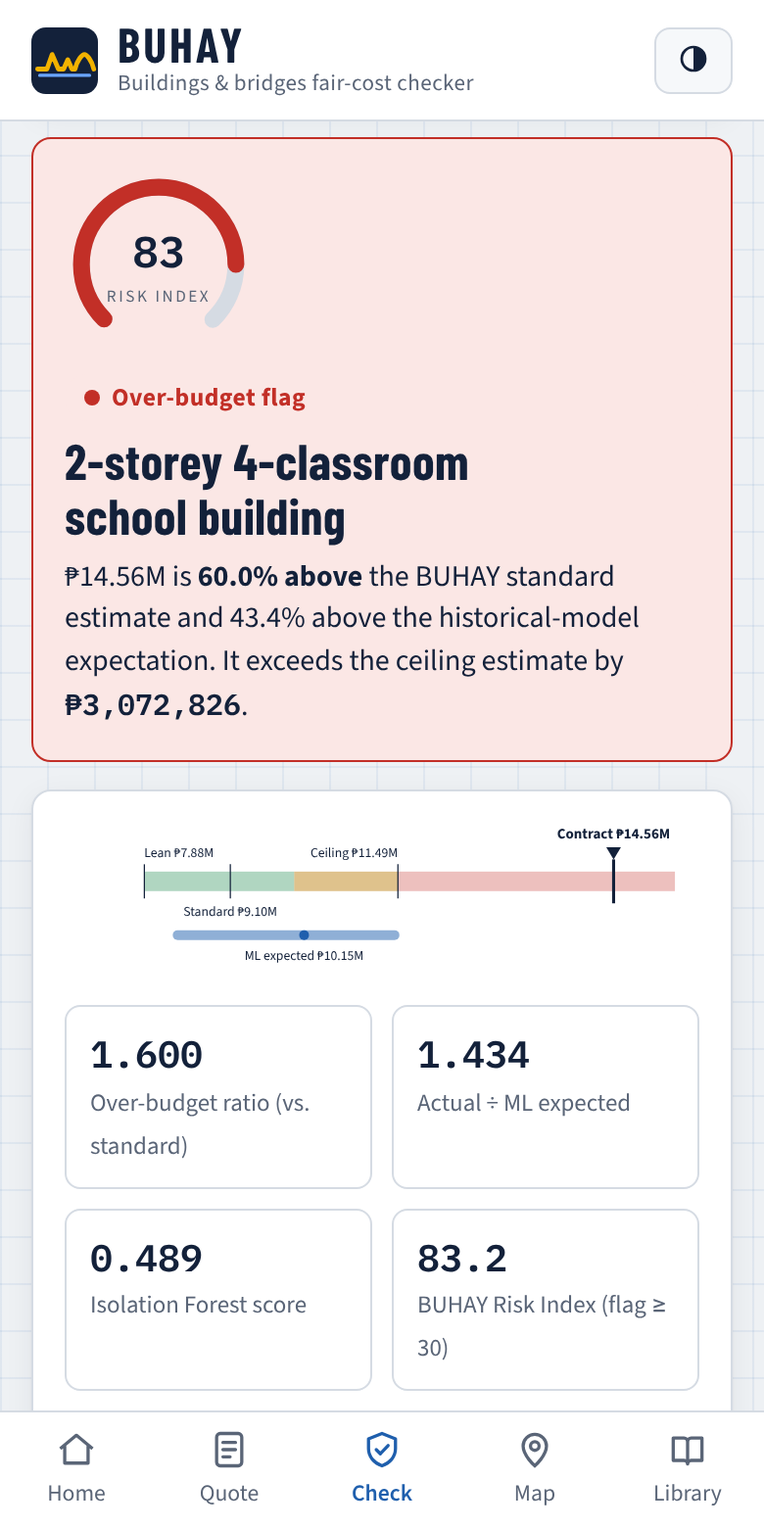
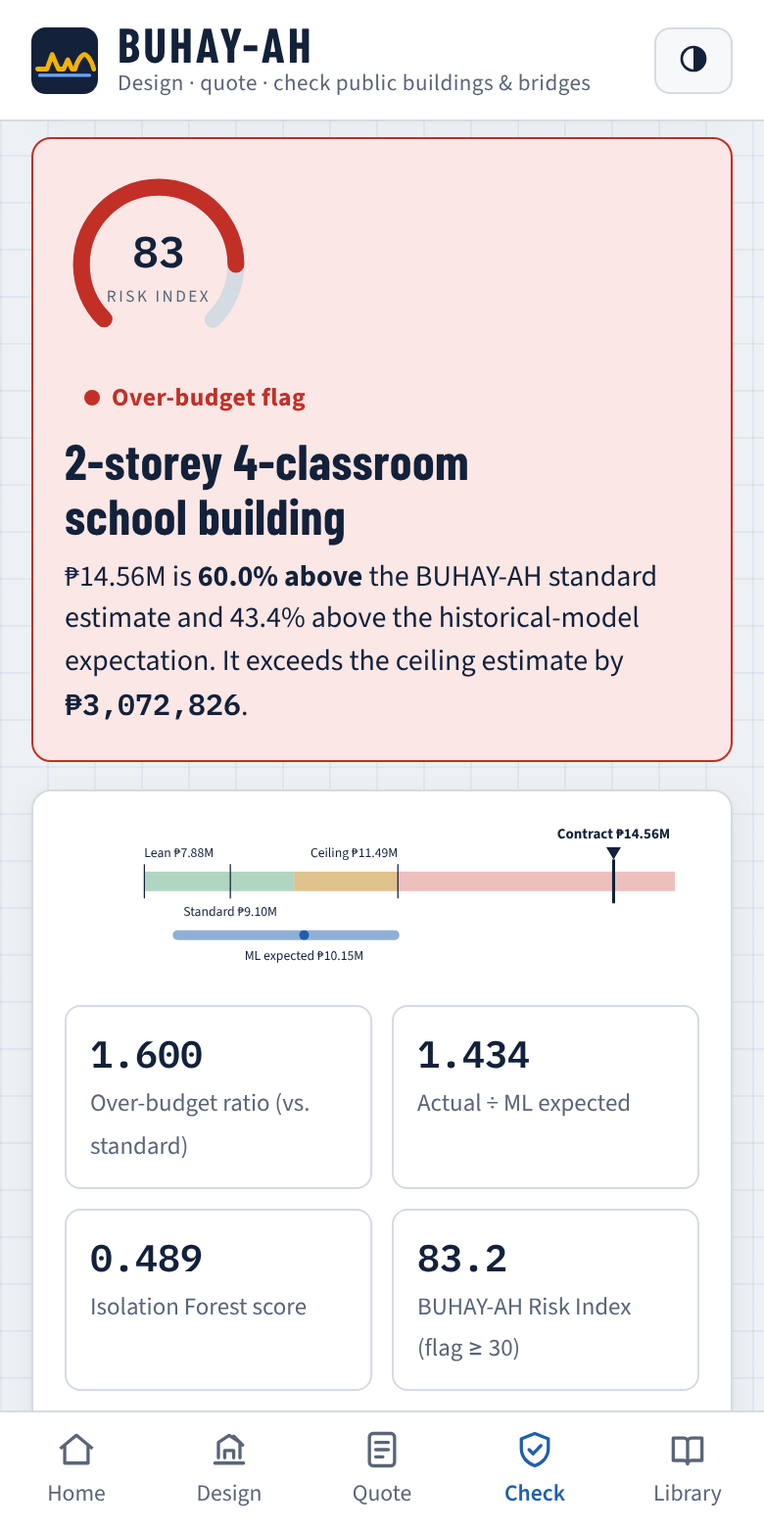
Website: BUHAY-AH rename, live budget-to-design demo and design gallery; remove map
Claude-Session: https://claude.ai/code/session_01L2hthenQG1mBGNzjn6dooT

diff --git a/docs/index.html b/docs/index.html
@@ -3,15 +3,14 @@
 <head>
 <meta charset="utf-8">
 <meta name="viewport" content="width=device-width, initial-scale=1, viewport-fit=cover">
-<title>BUHAY</title>
+<title>BUHAY-AH</title>
 <meta name="claude:viewport-fit-sides" content="cover">
-<meta name="description" content="BUHAY prices public buildings and bridges from their plans using DPWH and international standards, gives a lean start quotation, and flags over-budgeted contracts. Download the app.">
+<meta name="description" content="BUHAY-AH designs public buildings and bridges from a requirement or a budget, prices them under DPWH and international standards, gives a lean start quotation, and flags over-budgeted contracts. Download the app.">
 <meta name="theme-color" content="#13213a">
 <link rel="icon" href="app/icons/icon-192.png">
 <link rel="preconnect" href="https://fonts.googleapis.com">
 <link rel="preconnect" href="https://fonts.gstatic.com" crossorigin>
 <link rel="stylesheet" href="https://fonts.googleapis.com/css2?family=Barlow+Condensed:wght@500;600;700;800&family=IBM+Plex+Mono:wght@400;600&family=Source+Sans+3:wght@400;600;700&display=swap">
-<link rel="stylesheet" href="app/vendor/leaflet/leaflet.css">
 <style>
 /* Layout: long-scroll download page. Full-bleed bands, content in a 1120px column.
    Identity: blueprint navy ink + survey grid paper, DPWH-sign yellow reserved for the download actions. */
@@ -114,19 +113,24 @@ a { color: var(--blue); }
 .t b { display: block; font-family: var(--f-mono); font-size: 1.6rem; }
 .t p { color: var(--muted); font-size: 0.92rem; margin-top: 6px; }
 
-/* map */
-#map { height: 520px; border-radius: 12px; border: 1px solid var(--line); background: var(--sheet-2); margin-top: 22px; }
-.leaflet-container { font-family: var(--f-body); background: var(--sheet-2); }
-.mapbar { display: flex; flex-wrap: wrap; justify-content: space-between; gap: 12px; align-items: end; }
-.seg { display: inline-flex; background: var(--sheet); border: 1px solid var(--line); border-radius: 9px; padding: 3px; gap: 3px; }
-.seg button { border: 0; background: none; font: inherit; font-weight: 600; color: var(--muted); padding: 7px 14px; border-radius: 7px; cursor: pointer; }
-.seg button[aria-pressed="true"] { background: var(--navy); color: var(--navy-ink); }
-.legend { display: flex; flex-wrap: wrap; gap: 16px; margin-top: 10px; font-size: 0.88rem; color: var(--muted); }
-.legend i { display: inline-block; width: 11px; height: 11px; border-radius: 50%; margin-right: 6px; vertical-align: -1px; }
-.mapstats { display: grid; grid-template-columns: repeat(auto-fit, minmax(160px, 1fr)); gap: 12px; margin-top: 16px; }
-.mapstats div { background: var(--sheet); border: 1px solid var(--line); border-radius: 10px; padding: 12px 14px; }
-.mapstats b { display: block; font-family: var(--f-mono); font-size: 1.4rem; }
-.mapstats span { color: var(--muted); font-size: 0.86rem; }
+/* design studio demo */
+.demo { display: grid; grid-template-columns: 1fr; gap: 18px; margin-top: 24px; }
+@media (min-width: 900px) { .demo { grid-template-columns: 320px 1fr; } }
+.panel { background: var(--sheet); border: 1px solid var(--line); border-radius: 12px; padding: 18px; display: flex; flex-direction: column; gap: 12px; min-width: 0; }
+.panel label { font-size: 0.85rem; font-weight: 600; color: var(--muted); display: flex; flex-direction: column; gap: 4px; }
+.panel select, .panel input { font: inherit; padding: 9px 10px; border: 1px solid var(--line); border-radius: 8px; background: var(--sheet-2); color: var(--ink); }
+.panel input[type=range] { padding: 0; accent-color: var(--blue); }
+.budgetval { font-family: var(--f-mono); font-size: 1.6rem; font-weight: 600; color: var(--ink); }
+.opts { display: grid; grid-template-columns: repeat(auto-fill, minmax(220px, 1fr)); gap: 12px; min-width: 0; }
+.opt { position: relative; background: var(--sheet); border: 1px solid var(--line); border-radius: 12px; padding: 10px; display: flex; flex-direction: column; gap: 4px; min-width: 0; }
+.opt.best { box-shadow: 0 0 0 2px var(--sign) inset; border-color: var(--sign); }
+.opt .tag { position: absolute; top: 8px; right: 8px; background: var(--sign); color: var(--sign-ink); font-size: 0.7rem; font-weight: 800; text-transform: uppercase; letter-spacing: 0.06em; padding: 2px 6px; border-radius: 4px; }
+.opt b { font-size: 1.02rem; }
+.opt span { color: var(--muted); font-size: 0.86rem; }
+.opt .cost { font-family: var(--f-mono); color: var(--ink); }
+.thumb { background: #fff; border: 1px solid var(--line); border-radius: 8px; height: 130px; display: flex; align-items: center; justify-content: center; overflow: hidden; }
+.thumb svg { width: 100%; height: 100%; }
+.gallery { display: grid; grid-template-columns: repeat(auto-fill, minmax(230px, 1fr)); gap: 12px; margin-top: 18px; }
 
 /* sdg */
 .sdgs { display: grid; grid-template-columns: repeat(auto-fit, minmax(200px, 1fr)); gap: 12px; margin-top: 28px; }
@@ -157,12 +161,12 @@ footer .wrap { display: flex; flex-direction: column; gap: 10px; }
 <body>
 <header class="nav">
   <div class="wrap">
-    <a class="brand" href="#top" aria-label="BUHAY home">
+    <a class="brand" href="#top" aria-label="BUHAY-AH home">
       <svg viewBox="0 0 64 64" aria-hidden="true"><rect width="64" height="64" rx="14" fill="#13213a"/><path d="M6 40h9l5-14 6 14h5l4-9 4 9h3c2-9 7-14 9-14s7 5 9 14" fill="none" stroke="#f2b200" stroke-width="4.5" stroke-linecap="round" stroke-linejoin="round"/><path d="M8 46h48" stroke="#6aa5ff" stroke-width="3" stroke-linecap="round"/></svg>
-      <b>BUHAY</b>
+      <b>BUHAY-AH</b>
     </a>
     <nav aria-label="Sections">
-      <a href="#how">How it works</a><a href="#map-section">Map</a><a href="#sdg">SDGs</a><a href="#research">Research</a><a class="get" href="#download">Download</a>
+      <a href="#how">How it works</a><a href="#designs">Design studio</a><a href="#sdg">SDGs</a><a href="#research">Research</a><a class="get" href="#download">Download</a>
     </nav>
   </div>
 </header>
@@ -170,19 +174,19 @@ footer .wrap { display: flex; flex-direction: column; gap: 10px; }
 <section class="hero" id="top">
   <div class="wrap">
     <div class="stack">
-      <div class="eyebrow">Public buildings &amp; bridges · DPWH &amp; international standards</div>
-      <h1>BUHAY<span>Buildings-and-Bridges Unit-cost Hybrid Analytics and Yardstick</span></h1>
-      <p class="lede">Give it the plan of a school building, health station, evacuation center or bridge. BUHAY takes off the quantities, prices them with DPWH pay items and gives you a <b>lean start quotation</b>, a fair estimate and a ceiling. Give it the contract amount and it tells you whether the project is over-budgeted.</p>
+      <div class="eyebrow">Design · quote · check public buildings &amp; bridges</div>
+      <h1>BUHAY-AH<span>Buildings-and-Bridges Unit-cost Hybrid Analytics and Yardstick for Accountable and Honest infrastructure</span></h1>
+      <p class="lede">No blueprint yet? Tell BUHAY-AH what the school, health station, evacuation center or bridge must hold, or how much money you have. It designs the facility, takes off every quantity under NSCP, DPWH and AASHTO rules, and gives you a <b>lean start quotation</b>, a fair estimate and a ceiling. Give it a contract amount and it tells you whether the project is over-budgeted.</p>
       <div class="btns">
-        <a class="btn sign" id="apkBtn" href="https://github.com/pogi6969/BUHAY-AH-A-FIGHT-AGAINTS-CORRUPTION-/releases/download/apk-latest/BUHAY.apk"><svg viewBox="0 0 24 24" aria-hidden="true"><path d="M12 3v12m0 0-4.5-4.5M12 15l4.5-4.5M4.5 19.5h15" fill="none" stroke="currentColor" stroke-width="2" stroke-linecap="round" stroke-linejoin="round"/></svg>Download for Android</a>
+        <a class="btn sign" id="apkBtn" href="https://github.com/pogi6969/BUHAY-AH-A-FIGHT-AGAINTS-CORRUPTION-/releases/download/apk-latest/BUHAY-AH.apk"><svg viewBox="0 0 24 24" aria-hidden="true"><path d="M12 3v12m0 0-4.5-4.5M12 15l4.5-4.5M4.5 19.5h15" fill="none" stroke="currentColor" stroke-width="2" stroke-linecap="round" stroke-linejoin="round"/></svg>Download for Android</a>
         <a class="btn blue" href="app/index.html#home"><svg viewBox="0 0 24 24" aria-hidden="true"><path d="M5 12h14m0 0-5-5m5 5-5 5" fill="none" stroke="currentColor" stroke-width="2" stroke-linecap="round" stroke-linejoin="round"/></svg>Open the web app</a>
         <a class="btn" href="#download">Install on iPhone or PC</a>
       </div>
       <p class="muted" style="font-size:0.92rem">Free · works offline after first load · your plans stay on your device</p>
     </div>
     <div class="phones" aria-label="App screens">
-      <div class="phone up"><img src="assets/screen-quote.png" alt="BUHAY quotation screen showing lean, standard and ceiling estimates for a 2-storey school building"></div>
-      <div class="phone"><img src="assets/screen-check.png" alt="BUHAY check screen flagging a padded contract with risk index 83"></div>
+      <div class="phone up"><img src="assets/screen-design.png" alt="BUHAY-AH design studio showing designs that fit a ₱25 million budget"></div>
+      <div class="phone"><img src="assets/screen-quote.png" alt="BUHAY-AH quotation screen showing lean, standard and ceiling estimates"></div>
     </div>
   </div>
 </section>
@@ -203,28 +207,34 @@ footer .wrap { display: flex; flex-direction: column; gap: 10px; }
 <section class="band" id="how" aria-labelledby="how-h">
   <div class="wrap">
     <div class="eyebrow">How it works</div>
-    <h2 id="how-h">From plan to fair price in four steps</h2>
+    <h2 id="how-h">From a need or a budget to a fair price</h2>
     <div class="steps">
-      <div class="step"><span class="n">01</span><h3>Provide the plan</h3><p>Start from a reference plan, import a DXF floor plan, or type the dimensions: storeys, spans, widths, foundation.</p></div>
-      <div class="step"><span class="n">02</span><h3>Quantity take-off</h3><p>Concrete, rebar, formwork, masonry, roofing, piles and girders are computed with NSCP 2015, DPWH Blue Book and AASHTO rules.</p></div>
-      <div class="step"><span class="n">03</span><h3>Quotation</h3><p>DPWH pay items and Bicol unit costs build the ABC with D.O. 197 s. 2016 / D.O. 30 s. 2025 markups, in lean, standard and ceiling tiers.</p></div>
-      <div class="step"><span class="n">04</span><h3>Over-budget check</h3><p>The over-budget ratio, an XGBoost cost model, and an Isolation Forest combine into the BUHAY Risk Index. SHAP explains every result.</p></div>
+      <div class="step"><span class="n">01</span><h3>Start anywhere</h3><p>A requirement (classrooms, beds, staff, evacuees, stalls), a budget, a DXF floor plan, or one of 55 design templates.</p></div>
+      <div class="step"><span class="n">02</span><h3>Design</h3><p>Reusable space modules on DepEd, DOH, NBC and DSWD norms are laid out into a schematic plan you can edit, save and combine.</p></div>
+      <div class="step"><span class="n">03</span><h3>Quotation</h3><p>Quantities from NSCP 2015, DPWH Blue Book and AASHTO rules, priced with DPWH pay items into lean, standard and ceiling ABCs.</p></div>
+      <div class="step"><span class="n">04</span><h3>Over-budget check</h3><p>The over-budget ratio, an XGBoost cost model and an Isolation Forest combine into the BUHAY-AH Risk Index. SHAP explains every result.</p></div>
     </div>
     <div class="tiersdemo" id="tiersDemo" aria-live="polite"></div>
     <p class="muted" style="margin-top:10px;font-size:0.92rem" id="tiersNote"></p>
   </div>
 </section>
 
-<section class="band" id="map-section" aria-labelledby="map-h" style="padding-top:20px">
+<section class="band" id="designs" aria-labelledby="des-h" style="padding-top:20px">
   <div class="wrap">
-    <div class="mapbar">
-      <div><div class="eyebrow">BUHAY Map · Bicol Region V</div><h2 id="map-h">Where the risk sits</h2></div>
-      <div class="seg" role="group" aria-label="Filter projects"><button type="button" data-k="all" aria-pressed="true">All</button><button type="button" data-k="building" aria-pressed="false">Buildings</button><button type="button" data-k="bridge" aria-pressed="false">Bridges</button></div>
+    <div class="eyebrow">Design studio · try it here</div>
+    <h2 id="des-h">What can your budget build?</h2>
+    <div class="demo">
+      <div class="panel">
+        <label for="dUsage">Facility<select id="dUsage"><option value="school">School building (classrooms)</option><option value="health">Health facility (beds)</option><option value="office">Government office (staff)</option><option value="evacuation">Evacuation center (persons)</option><option value="market">Public market (stalls)</option><option value="dorm">Dormitory (beds)</option></select></label>
+        <label for="dBudget">Budget<input id="dBudget" type="range" min="5000000" max="80000000" step="1000000" value="25000000"></label>
+        <span class="budgetval" id="dBudgetVal">₱25.00M</span>
+        <p class="muted" style="font-size:0.88rem">BUHAY-AH evaluates every storey count and capacity, prices each design from its quantities (lean start quotation, Albay 2025 prices, lot up to 60 m long) and keeps only designs that no other design beats on both capacity and cost.</p>
+      </div>
+      <div class="opts" id="dOpts" aria-live="polite"></div>
     </div>
-    <div id="map" role="region" aria-label="Map of screened projects in Bicol"></div>
-    <div class="legend"><span><i style="background:var(--bad)"></i>High risk (BRI ≥ 30)</span><span><i style="background:var(--warn)"></i>For review</span><span><i style="background:var(--ok)"></i>Within fair range</span></div>
-    <div class="mapstats" id="mapStats"></div>
-    <p class="muted" style="margin-top:12px;font-size:0.9rem">Pins show the 300-project simulated benchmark used in the research (SBD-300). They are not real DPWH contracts. In the app, your own screened contracts appear on the same map.</p>
+    <h3 style="margin-top:34px">From the design library</h3>
+    <div class="gallery" id="gallery"></div>
+    <p class="muted" style="margin-top:12px;font-size:0.9rem">Schematic designs for estimating, not for construction. In the app every design can be edited space by space, saved, and added as a wing of another design.</p>
   </div>
 </section>
 
@@ -245,11 +255,11 @@ footer .wrap { display: flex; flex-direction: column; gap: 10px; }
 <section class="band dark" id="download" aria-labelledby="dl-h">
   <div class="wrap">
     <div class="eyebrow">Download</div>
-    <h2 id="dl-h">Get BUHAY</h2>
+    <h2 id="dl-h">Get BUHAY-AH</h2>
     <div class="dl">
-      <div class="card feature" style="color:var(--ink)"><h3>Android app (APK)</h3><ol><li>Tap the button to download <span class="mono">BUHAY.apk</span>.</li><li>Open it and allow “Install unknown apps” for your browser.</li><li>Open BUHAY from your home screen.</li></ol><a class="btn sign" href="https://github.com/pogi6969/BUHAY-AH-A-FIGHT-AGAINTS-CORRUPTION-/releases/download/apk-latest/BUHAY.apk">Download APK</a></div>
+      <div class="card feature" style="color:var(--ink)"><h3>Android app (APK)</h3><ol><li>Tap the button to download <span class="mono">BUHAY-AH.apk</span>.</li><li>Open it and allow “Install unknown apps” for your browser.</li><li>Open BUHAY-AH from your home screen.</li></ol><a class="btn sign" href="https://github.com/pogi6969/BUHAY-AH-A-FIGHT-AGAINTS-CORRUPTION-/releases/download/apk-latest/BUHAY-AH.apk">Download APK</a></div>
       <div class="card" style="color:var(--ink)"><h3>Install on any phone or PC</h3><ol><li>Open the web app in Chrome, Edge or Safari.</li><li>Android/PC: tap <b>Install app</b> or the install icon in the address bar.</li><li>iPhone: Share → <b>Add to Home Screen</b>.</li></ol><a class="btn blue" href="app/index.html#home">Open the web app</a></div>
-      <div class="card" style="color:var(--ink)"><h3>Offline package</h3><ol><li>Download the ZIP and extract it.</li><li>Open <span class="mono">index.html</span> in any browser.</li><li>Quotations, checks and the map work without a server.</li></ol><a class="btn" href="downloads/BUHAY-App-Offline.zip">Download ZIP</a></div>
+      <div class="card" style="color:var(--ink)"><h3>Offline package</h3><ol><li>Download the ZIP and extract it.</li><li>Open <span class="mono">index.html</span> in any browser.</li><li>Designs, quotations and checks work without a server.</li></ol><a class="btn" href="downloads/BUHAY-AH-App-Offline.zip">Download ZIP</a></div>
       <div class="card" style="color:var(--ink)"><h3>Sample plan</h3><ol><li>Download the sample DXF floor plan (2-classroom school).</li><li>In the app: Quote → Import plan file.</li><li>Set storeys and spacing, read the quotation.</li></ol><a class="btn" href="app/data/sample-plan.dxf">Download DXF</a></div>
     </div>
   </div>
@@ -259,14 +269,15 @@ footer .wrap { display: flex; flex-direction: column; gap: 10px; }
   <div class="wrap paper">
     <div style="display:flex;flex-direction:column;gap:16px;min-width:0">
       <div class="eyebrow">The research</div>
-      <h2 id="res-h" style="font-size:clamp(1.7rem,4vw,2.4rem)">BUHAY: A blueprint-driven quantity take-off and hybrid machine-learning system for standards-based start quotations and over-budget detection in public buildings and bridges</h2>
-      <div class="abstract">The study builds a standards-based quantity take-off engine for public buildings and bridges in Bicol Region V and couples it with Multiple Linear Regression, XGBoost, Isolation Forest and SHAP. On a 300-project simulated benchmark with known overpricing, the standard estimate came within 5.2% (buildings) and 7.7% (bridges) mean absolute percentage error of fair awarded costs, and the BUHAY Risk Index caught 94.4% of padded contracts (AUC 0.987) where an Isolation Forest alone caught 27.8%.</div>
-      <div class="btns"><a class="btn blue" href="downloads/BUHAY-Research-Paper.pdf">Read the paper (PDF)</a><a class="btn" href="downloads/BUHAY-Research-Paper.docx">Word version (DOCX)</a></div>
+      <h2 id="res-h" style="font-size:clamp(1.7rem,4vw,2.4rem)">BUHAY-AH: A budget-to-blueprint design generator, standards-based quantity take-off and hybrid machine-learning system for start quotations and over-budget detection in public buildings and bridges</h2>
+      <div class="abstract" id="abstractText">BUHAY-AH turns a requirement or a budget into a schematic design, prices it with a standards-based quantity take-off, and screens contract amounts with Multiple Linear Regression, XGBoost, Isolation Forest and SHAP. On a 300-project simulated benchmark with known overpricing, the standard estimate came within 5.2% (buildings) and 7.7% (bridges) of fair awarded costs, and the BUHAY-AH Risk Index caught 94.4% of padded contracts (AUC 0.987) where an Isolation Forest alone caught 27.8%.</div>
+      <div class="btns"><a class="btn blue" href="downloads/BUHAY-AH-Research-Paper.pdf">Read the paper (PDF)</a><a class="btn" href="downloads/BUHAY-AH-Research-Paper.docx">Word version (DOCX)</a><a class="btn" href="downloads/BUHAY-AH-Rationale-Script.pdf">Rationale script (PDF)</a></div>
+      <div class="btns"><a class="btn" href="downloads/BUHAY-AH-PR2-Introduction-Methodology.pptx">Slides: Introduction &amp; Methods</a><a class="btn" href="downloads/BUHAY-AH-PR2-Full-Research.pptx">Slides: Full research</a></div>
       <div class="team"><div class="avatar" aria-hidden="true">EB</div><div><b>Enrique Miguel C. Buban</b><div class="muted">Lead researcher</div></div></div>
     </div>
     <div class="results" id="results">
       <div><b>94.4%</b><span>of injected overpricing flagged (recall)</span></div>
-      <div><b>0.987</b><span>ROC AUC of the BUHAY Risk Index</span></div>
+      <div><b>0.987</b><span>ROC AUC of the BUHAY-AH Risk Index</span></div>
       <div><b>5.2%</b><span>MAPE, standard estimate vs. fair awarded cost, buildings</span></div>
       <div><b>7.7%</b><span>MAPE, standard estimate vs. fair awarded cost, bridges</span></div>
       <div><b>14.4%</b><span>average saving of the lean start quotation vs. the standard estimate, buildings</span></div>
@@ -277,20 +288,26 @@ footer .wrap { display: flex; flex-direction: column; gap: 10px; }
 
 <footer>
   <div class="wrap">
-    <p><b>BUHAY</b> is a screening tool. A flag means a contract deserves a closer look by the implementing office, the Commission on Audit, the Office of the Ombudsman or the Independent Commission for Infrastructure. It is not proof of irregularity.</p>
-    <p>Unit costs are indicative 2025 Bicol rates and can be edited in the app. Map boundaries: OCHA/PSA via faeldon/philippines-json-maps. Map tiles © OpenStreetMap contributors.</p>
+    <p><b>BUHAY-AH</b> is a screening tool. A flag means a contract deserves a closer look by the implementing office, the Commission on Audit, the Office of the Ombudsman or the Independent Commission for Infrastructure. It is not proof of irregularity.</p>
+    <p>Unit costs are indicative 2025 Bicol rates and can be edited in the app. Designs are schematic and must be completed by licensed architects and engineers before construction.</p>
     <p>© 2026 Enrique Miguel C. Buban · <a href="https://github.com/pogi6969/BUHAY-AH-A-FIGHT-AGAINTS-CORRUPTION-">Source code</a></p>
   </div>
 </footer>
 
-<script src="app/vendor/leaflet/leaflet.js"></script>
 <script src="app/js/engine.js"></script>
+<script src="app/js/designs.js"></script>
 <script>
 (function () {
   'use strict';
-  var E = window.BuhayEngine;
+  var E = window.BuhayEngine, DS = window.BuhayDesign;
   function pesoM(n) { return '₱' + (n / 1e6).toLocaleString('en-PH', { minimumFractionDigits: 2, maximumFractionDigits: 2 }) + 'M'; }
   function esc(s) { return String(s).replace(/[&<>"']/g, function (c) { return { '&': '&amp;', '<': '&lt;', '>': '&gt;', '"': '&quot;', "'": '&#39;' }[c]; }); }
+  function capText(d) {
+    var c = d.capacity, p = [];
+    if (c.classrooms) p.push(c.classrooms + ' classrooms'); if (c.beds) p.push(c.beds + ' beds'); if (c.consult && !c.beds) p.push(c.consult + ' consultation rooms');
+    if (c.staff) p.push(c.staff + ' staff'); if (c.persons) p.push(c.persons + ' persons'); if (c.stalls) p.push(c.stalls + ' stalls');
+    return p.join(' · ');
+  }
 
   // live quotation of a reference plan, computed by the same engine as the app
   var ref = E.ARCHETYPES.filter(function (a) { return a.id === 'sb-2s4c'; })[0];
@@ -299,48 +316,34 @@ footer .wrap { display: flex; flex-direction: column; gap: 10px; }
     '<div class="t start"><span class="tag">Start quotation</span><span class="eyebrow">Lean</span><b>' + pesoM(q.start) + '</b><p>Code-minimum reinforcement, basic finishes, every NSCP and PD 1096 requirement kept.</p></div>' +
     '<div class="t"><span class="eyebrow">Standard fair estimate</span><b>' + pesoM(q.fair) + '</b><p>Typical DPWH design intensities and finishes.</p></div>' +
     '<div class="t"><span class="eyebrow">Ceiling</span><b>' + pesoM(q.ceiling) + '</b><p>Highest defensible price. A contract above it is flagged.</p></div>';
-  document.getElementById('tiersNote').textContent = 'Live example: ' + ref.name + ', Albay, 2025 prices, computed in your browser by the BUHAY engine.';
+  document.getElementById('tiersNote').textContent = 'Live example: ' + ref.name + ', Albay, 2025 prices, computed in your browser by the BUHAY-AH engine.';
 
-  // map
-  var map = null, projects = [], kind = 'all';
-  var css = getComputedStyle(document.documentElement);
-  function col(s) { return (css.getPropertyValue({ red: '--bad', amber: '--warn', green: '--ok' }[s]) || '#888').trim(); }
-  function draw(geo) {
-    if (typeof L === 'undefined') return;
-    if (!map) {
-      map = L.map('map', { scrollWheelZoom: false }).setView([13.25, 123.55], 8);
-      L.tileLayer('https://tile.openstreetmap.org/{z}/{x}/{y}.png', { maxZoom: 18, attribution: '© OpenStreetMap contributors' }).addTo(map);
-      if (geo) L.geoJSON(geo, { style: { color: '#1f5fad', weight: 1.2, fillColor: '#1f5fad', fillOpacity: 0.06 }, onEachFeature: function (f, l) { l.bindTooltip(f.properties.name, { sticky: true }); } }).addTo(map);
-      map.pins = L.layerGroup().addTo(map);
-    }
-    map.pins.clearLayers();
-    var shown = projects.filter(function (p) { return kind === 'all' || p.kind === kind; });
-    shown.forEach(function (p) {
-      L.circleMarker([p.lat, p.lon], { radius: p.status === 'red' ? 7 : 5, color: '#fff', weight: 1, fillColor: col(p.status), fillOpacity: 0.92 })
-        .bindPopup('<b>' + esc(p.label) + '</b><br><span style="font-family:monospace">' + esc(p.id) + '</span> · ' + esc(p.province) + ' · ' + p.year +
-          '<br>Contract ' + pesoM(p.awarded) + ' · BUHAY standard ' + pesoM(p.fair) + '<br>Over-budget ratio <b>' + p.obr.toFixed(2) + '</b> · Risk index <b>' + p.bri.toFixed(0) + '</b><br><i>Simulated benchmark record</i>')
-        .addTo(map.pins);
-    });
-    var red = shown.filter(function (p) { return p.status === 'red'; });
-    var excess = red.reduce(function (s, p) { return s + Math.max(0, p.awarded - p.ceiling); }, 0);
-    document.getElementById('mapStats').innerHTML =
-      '<div><b>' + shown.length + '</b><span>projects screened</span></div>' +
-      '<div><b>' + red.length + '</b><span>high-risk flags</span></div>' +
-      '<div><b>' + pesoM(excess) + '</b><span>above the ceiling in flagged projects</span></div>' +
-      '<div><b>' + pesoM(shown.reduce(function (s, p) { return s + p.awarded; }, 0)) + '</b><span>total contract value</span></div>';
+  // budget-to-design demo
+  var usageSel = document.getElementById('dUsage'), budget = document.getElementById('dBudget');
+  function run() {
+    var B = +budget.value, U = DS.USAGE[usageSel.value];
+    document.getElementById('dBudgetVal').textContent = pesoM(B);
+    var res = DS.fromBudget(usageSel.value, B, { basis: 'start', maxLength: 60 });
+    var el = document.getElementById('dOpts');
+    if (!res.options.length) { el.innerHTML = '<div class="opt"><b>Not enough for the smallest ' + esc(U.label.toLowerCase()) + '.</b><span>Move the budget up.</span></div>'; return; }
+    el.innerHTML = res.options.map(function (o) {
+      return '<div class="opt' + (o.best ? ' best' : '') + '">' + (o.best ? '<span class="tag">Most ' + esc(U.capLabel) + '</span>' : '') +
+        '<div class="thumb">' + DS.planSVG(o.design, 0, { bare: true }) + '</div><b>' + o.k + ' ' + esc(U.capLabel) + ', ' + o.N + ' storey' + (o.N > 1 ? 's' : '') + '</b>' +
+        '<span>' + o.design.L.toFixed(1) + ' × ' + o.design.W.toFixed(1) + ' m · ' + Math.round(o.design.gfa).toLocaleString() + ' m²</span>' +
+        '<span class="cost">' + pesoM(o.cost) + ' · ' + Math.round(o.cost / B * 100) + '% of budget</span></div>';
+    }).join('') + '<p class="muted" style="grid-column:1/-1;font-size:0.85rem">' + res.evaluations + ' designs evaluated in your browser.</p>';
   }
-  document.querySelectorAll('.seg button').forEach(function (b) {
-    b.addEventListener('click', function () {
-      kind = b.dataset.k;
-      document.querySelectorAll('.seg button').forEach(function (x) { x.setAttribute('aria-pressed', x === b); });
-      draw();
-    });
-  });
-  Promise.all([
-    fetch('app/data/projects.json').then(function (r) { return r.json(); }),
-    fetch('app/data/bicol.geojson').then(function (r) { return r.json(); })
-  ]).then(function (res) { projects = res[0].projects; draw(res[1]); })
-    .catch(function () { document.getElementById('mapStats').innerHTML = '<div><span>The map data could not be loaded. Open the web app to see the map.</span></div>'; draw(null); });
+  usageSel.addEventListener('change', run); budget.addEventListener('input', run); run();
+
+  // gallery
+  var pick = ['sch-2s6', 'sch-3s12', 'bhs-birthing', 'hospital-25', 'mun-hall', 'evac-200', 'market-100', 'court-std'];
+  document.getElementById('gallery').innerHTML = pick.map(function (id) {
+    var t = DS.TEMPLATES.filter(function (x) { return x.id === id; })[0], d = DS.build(t), qq = DS.quote(d);
+    return '<div class="opt"><div class="thumb">' + DS.planSVG(d, 0, { bare: true }) + '</div><b>' + esc(t.name) + '</b><span>' + esc(capText(d)) + '</span><span class="cost">Start ' + pesoM(qq.start) + ' · standard ' + pesoM(qq.fair) + '</span></div>';
+  }).join('') + DS.BRIDGE_TEMPLATES.filter(function (b) { return ['br-rcdg60', 'br-truss45'].indexOf(b.id) >= 0; }).map(function (b) {
+    var qq = E.quote(b.plan);
+    return '<div class="opt"><div class="thumb">' + DS.bridgeSVG(b.plan) + '</div><b>' + esc(b.name) + '</b><span>' + esc(E.SUPERSTRUCTURES[b.plan.superstructure].label) + '</span><span class="cost">Start ' + pesoM(qq.start) + ' · standard ' + pesoM(qq.fair) + '</span></div>';
+  }).join('');
 }());
 </script>
 </body>
